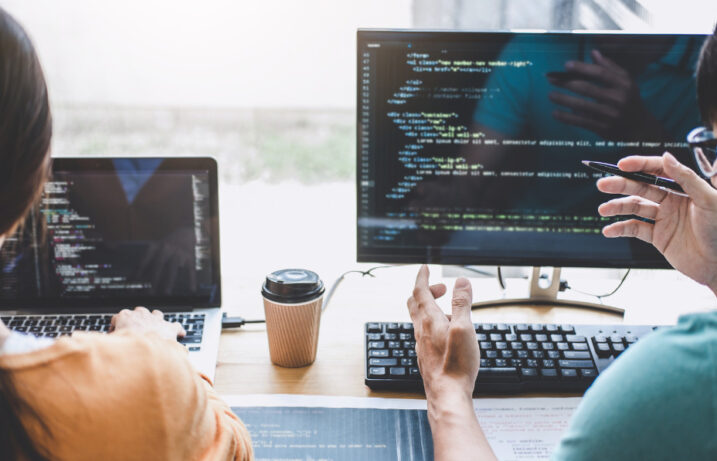
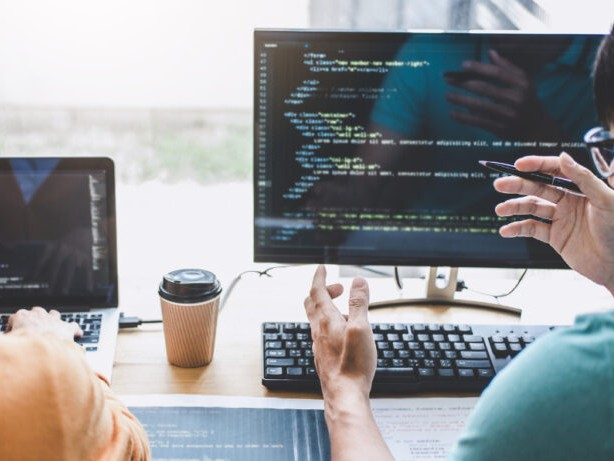
.

diff --git a/index.html b/index.html
@@ -4,6 +4,7 @@
     <meta charset="UTF-8">
     <meta name="viewport" content="width=device-width, initial-scale=1.0">
     <title>Arbisef.tech — Digital Studios</title>
+    <link rel="icon" href="images/logo.png" type="png">
     <link rel="stylesheet" href="styles.css">
     <link rel="preconnect" href="https://fonts.googleapis.com">
     <link rel="preconnect" href="https://fonts.gstatic.com" crossorigin>
@@ -149,7 +150,7 @@
                 </div>
                 <div class="stat-divider"></div>
                 <div class="stat">
-                    <span class="stat-num">10+</span>
+                    <span class="stat-num">5+</span>
                     <span class="stat-label">Projects shipped</span>
                 </div>
                 <div class="stat-divider"></div>
@@ -164,7 +165,7 @@
         </div>
         <div class="about-image">
             <div class="img-pixel-border"></div>
-            <img src="about-image.jpg" alt="Arbisef team at work" class="about-img">
+            <img src="images/about-image.jpg" alt="Arbisef team at work" class="about-img">
             <div class="img-caption">// TEAM_AT_WORK.JPG</div>
         </div>
     </div>
@@ -288,12 +289,12 @@
     <div class="team-grid reveal">
         <div class="team-card">
             <div class="team-avatar">
-                <div class="avatar-pixel" data-initials="AR"></div>
+                <img src="images/Arung.png" alt="Arung avatar" class="avatar-pixel">
                 <div class="team-status online"></div>
             </div>
             <div class="team-info">
                 <div class="team-rank">PLAYER 1</div>
-                <h3>Arbi</h3>
+                <h3>Arung</h3>
                 <p class="team-role">Founder & Full-Stack Dev</p>
                 <p class="team-bio">The architect. Turns caffeine and ideas into production-ready code.</p>
             </div>
@@ -304,12 +305,12 @@
         </div>
         <div class="team-card">
             <div class="team-avatar">
-                <div class="avatar-pixel" data-initials="SE"></div>
+                <img src="images/Arkaan.jpeg" alt="Arkaan avatar" class="avatar-pixel">
                 <div class="team-status online"></div>
             </div>
             <div class="team-info">
                 <div class="team-rank">PLAYER 2</div>
-                <h3>Sefi</h3>
+                <h3>Arkaan</h3>
                 <p class="team-role">Game Developer</p>
                 <p class="team-bio">Lives inside game engines. Makes pixels do things they shouldn't.</p>
             </div>
@@ -320,13 +321,13 @@
         </div>
         <div class="team-card">
             <div class="team-avatar">
-                <div class="avatar-pixel" data-initials="RI"></div>
+                <img src="images/Abizar.jpeg" alt="Abizar avatar" class="avatar-pixel">
                 <div class="team-status online"></div>
             </div>
             <div class="team-info">
                 <div class="team-rank">PLAYER 3</div>
-                <h3>Riko</h3>
-                <p class="team-role">UI/UX Designer</p>
+                <h3>Abizar</h3>
+                <p class="team-role">UI/UX Designer/scratch dev</p>
                 <p class="team-bio">Obsessed with the space between things. Makes every pixel intentional.</p>
             </div>
             <div class="team-skills-bar">
@@ -336,12 +337,12 @@
         </div>
         <div class="team-card">
             <div class="team-avatar">
-                <div class="avatar-pixel" data-initials="FA"></div>
+                <img src="images/Falih.jpeg" alt="Falih avatar" class="avatar-pixel">
                 <div class="team-status online"></div>
             </div>
             <div class="team-info">
                 <div class="team-rank">PLAYER 4</div>
-                <h3>Faza</h3>
+                <h3>Falih</h3>
                 <p class="team-role">Mobile & Backend Dev</p>
                 <p class="team-bio">Wrangles servers and APIs. If it runs on a phone, he built it.</p>
             </div>
@@ -353,7 +354,7 @@
     </div>
 
     <a href="about.html" class="learn-more" style="margin-top:48px;">
-        Meet the full team <i class="fa-solid fa-arrow-right"></i>
+        Learn more <i class="fa-solid fa-arrow-right"></i>
     </a>
 </section>
 
@@ -375,26 +376,7 @@
 <footer>
     <div class="footer-inner">
         <div class="footer-brand">
-            <svg class="coin-logo" viewBox="0 0 28 28" width="22" height="22" xmlns="http://www.w3.org/2000/svg">
-                    <rect x="9"  y="1"  width="10" height="2"  fill="#fbbf24"/>
-                    <rect x="5"  y="3"  width="18" height="2"  fill="#fbbf24"/>
-                    <rect x="3"  y="5"  width="22" height="18" fill="#fbbf24"/>
-                    <rect x="5"  y="23" width="18" height="2"  fill="#fbbf24"/>
-                    <rect x="9"  y="25" width="10" height="2"  fill="#fbbf24"/>
-                    <rect x="5"  y="3"  width="7"  height="2"  fill="#fde68a"/>
-                    <rect x="3"  y="5"  width="2"  height="7"  fill="#fde68a"/>
-                    <rect x="21" y="21" width="4"  height="2"  fill="#b45309"/>
-                    <rect x="23" y="12" width="2"  height="9"  fill="#b45309"/>
-                    <rect x="7"  y="5"  width="14" height="18" fill="#f59e0b"/>
-                    <rect x="5"  y="7"  width="18" height="14" fill="#f59e0b"/>
-                    <rect x="13" y="8"  width="2"  height="2"  fill="#78350f"/>
-                    <rect x="11" y="10" width="6"  height="2"  fill="#78350f"/>
-                    <rect x="9"  y="12" width="10" height="2"  fill="#78350f"/>
-                    <rect x="11" y="14" width="6"  height="2"  fill="#78350f"/>
-                    <rect x="13" y="16" width="2"  height="2"  fill="#78350f"/>
-                    <rect x="11" y="12" width="2"  height="2"  fill="#78350f"/>
-                    <rect x="15" y="12" width="2"  height="2"  fill="#78350f"/>
-                </svg>
+            <img src="images/logo.png" alt="Arbisef logo" class="footer-logo">
             <span>Arbisef.tech</span>
         </div>
         <p class="footer-copy">© 2025 Arbisef.tech — All rights reserved.</p>

diff --git a/about.html b/about.html
@@ -72,7 +72,7 @@
                 <div class="img-caption">// TEAM_AT_WORK.JPG</div>
             </div>
             <div class="floating-badge reveal-delay-1">
-                <span class="badge-num">2023</span>
+                <span class="badge-num">2025</span>
                 <span class="badge-label">Founded</span>
             </div>
         </div>
@@ -100,12 +100,12 @@
     </div>
     <div class="stat-sep"></div>
     <div class="stat-item">
-        <span class="stat-big">2+</span>
-        <span class="stat-desc">Years building</span>
+        <span class="stat-big">6+</span>
+        <span class="stat-desc">months building</span>
     </div>
     <div class="stat-sep"></div>
     <div class="stat-item">
-        <span class="stat-big">10+</span>
+        <span class="stat-big">5+</span>
         <span class="stat-desc">Projects shipped</span>
     </div>
     <div class="stat-sep"></div>
@@ -127,14 +127,14 @@
 
         <div class="team-full-card reveal">
             <div class="tfc-left">
-                <div class="tfc-avatar" data-initials="AR" style="--c1:#b325eb;--c2:#ed60fa"></div>
+                <img src="images/Arung.png" alt="Arung avatar" class="tfc-avatar">
                 <div class="tfc-rank">PLAYER 1</div>
                 <div class="tfc-status"><span class="online-dot"></span> Online</div>
             </div>
             <div class="tfc-right">
-                <h3>Arbi</h3>
+                <h3>Arung</h3>
                 <p class="tfc-role"><i class="fa-solid fa-code"></i> Founder & Full-Stack Developer</p>
-                <p class="tfc-bio">The architect behind Arbisef.tech. Arbi turns caffeine and ideas into production-ready systems. Passionate about clean code and shipping things that last. When not coding, he's probably redesigning something that wasn't broken.</p>
+                <p class="tfc-bio">The architect behind Arbisef.tech. Arung turns caffeine and ideas into production-ready systems. Passionate about clean code and shipping things that last. When not coding, he's probably redesigning something that wasn't broken.</p>
                 <div class="tfc-skills">
                     <div class="tfc-skill-row"><span>Full-Stack</span><div class="tfc-bar"><div style="width:95%"></div></div></div>
                     <div class="tfc-skill-row"><span>Leadership</span><div class="tfc-bar"><div style="width:90%"></div></div></div>
@@ -148,14 +148,14 @@
 
         <div class="team-full-card reveal">
             <div class="tfc-left">
-                <div class="tfc-avatar" data-initials="SE" style="--c1:#7c3aed;--c2:#a78bfa"></div>
+                <img src="images/Arkaan.jpeg" alt="Arkaan avatar" class="tfc-avatar">
                 <div class="tfc-rank">PLAYER 2</div>
                 <div class="tfc-status"><span class="online-dot"></span> Online</div>
             </div>
             <div class="tfc-right">
-                <h3>Sefi</h3>
+                <h3>Arkaan</h3>
                 <p class="tfc-role"><i class="fa-solid fa-gamepad"></i> Game Developer</p>
-                <p class="tfc-bio">Sefi lives inside game engines. He makes pixels do things they were never designed to do. With a deep love for game mechanics and interactive storytelling, Sefi brings the fun factor to everything Arbisef touches.</p>
+                <p class="tfc-bio">Arkaan lives inside game engines. He makes pixels do things they were never designed to do. With a deep love for game mechanics and interactive storytelling, Arkaan brings the fun factor to everything Arbisef touches.</p>
                 <div class="tfc-skills">
                     <div class="tfc-skill-row"><span>Game Dev</span><div class="tfc-bar"><div style="width:97%"></div></div></div>
                     <div class="tfc-skill-row"><span>Physics</span><div class="tfc-bar"><div style="width:91%"></div></div></div>
@@ -169,14 +169,14 @@
 
         <div class="team-full-card reveal">
             <div class="tfc-left">
-                <div class="tfc-avatar" data-initials="RI" style="--c1:#db2777;--c2:#f472b6"></div>
+                <img src="images/Abizar.jpeg" alt="Abizar avatar" class="tfc-avatar">
                 <div class="tfc-rank">PLAYER 3</div>
                 <div class="tfc-status"><span class="online-dot"></span> Online</div>
             </div>
             <div class="tfc-right">
-                <h3>Riko</h3>
-                <p class="tfc-role"><i class="fa-solid fa-palette"></i> UI/UX Designer</p>
-                <p class="tfc-bio">Riko is obsessed with the space between things. Every margin, every transition, every color choice — intentional. She translates chaotic product ideas into clear, beautiful experiences that users actually enjoy using.</p>
+                <h3>Abizar</h3>
+                <p class="tfc-role"><i class="fa-solid fa-palette"></i> UI/UX Designer/Scratch dev</p>
+                <p class="tfc-bio">Abizar is obsessed with the space between things. Every margin, every transition, every color choice — intentional. He translates chaotic product ideas into clear, beautiful experiences that users actually enjoy using.</p>
                 <div class="tfc-skills">
                     <div class="tfc-skill-row"><span>UI Design</span><div class="tfc-bar"><div style="width:96%"></div></div></div>
                     <div class="tfc-skill-row"><span>Motion</span><div class="tfc-bar"><div style="width:88%"></div></div></div>
@@ -190,14 +190,14 @@
 
         <div class="team-full-card reveal">
             <div class="tfc-left">
-                <div class="tfc-avatar" data-initials="FA" style="--c1:#0891b2;--c2:#22d3ee"></div>
+                <img src="images/Falih.jpeg" alt="Falih avatar" class="tfc-avatar">
                 <div class="tfc-rank">PLAYER 4</div>
                 <div class="tfc-status"><span class="online-dot"></span> Online</div>
             </div>
             <div class="tfc-right">
-                <h3>Faza</h3>
+                <h3>Falih</h3>
                 <p class="tfc-role"><i class="fa-solid fa-server"></i> Mobile & Backend Developer</p>
-                <p class="tfc-bio">Faza wrangles servers, databases, and mobile platforms without breaking a sweat. If it runs on a phone or powers an API, he built it. The quiet force ensuring everything actually works — reliably, at scale.</p>
+                <p class="tfc-bio">Falih wrangles servers, databases, and mobile platforms without breaking a sweat. If it runs on a phone or powers an API, he built it. The quiet force ensuring everything actually works — reliably, at scale.</p>
                 <div class="tfc-skills">
                     <div class="tfc-skill-row"><span>Mobile</span><div class="tfc-bar"><div style="width:94%"></div></div></div>
                     <div class="tfc-skill-row"><span>Backend</span><div class="tfc-bar"><div style="width:91%"></div></div></div>

diff --git a/styles.css b/styles.css
@@ -107,7 +107,6 @@ ul.navbar {
     text-decoration: none;
 }
 
-/* Coin logo */
 .coin-logo {
     flex-shrink: 0;
     filter: drop-shadow(0 0 6px rgba(217,119,6,0.5));
@@ -292,22 +291,6 @@ section {
     pointer-events: none;
 }
 
-/* Floating orbs */
-.orb {
-    position: absolute;
-    border-radius: 50%;
-    filter: blur(80px);
-    pointer-events: none;
-    animation: float 8s ease-in-out infinite;
-}
-.orb-1 { width: 500px; height: 500px; background: rgba(74,222,128,0.16); top: -120px; left: -80px; animation-delay: 0s; }
-.orb-2 { width: 300px; height: 300px; background: rgba(22,101,52,0.10); top: 35%; right: 5%; animation-delay: 3s; }
-.orb-3 { width: 220px; height: 220px; background: rgba(217,119,6,0.09); bottom: 12%; left: 18%; animation-delay: 6s; }
-
-@keyframes float {
-    0%, 100% { transform: translateY(0); }
-    50%       { transform: translateY(-30px); }
-}
 
 /* Arcade decorations */
 .arcade-deco {
@@ -557,6 +540,7 @@ a.btn-primary, a.btn-ghost {
     border-bottom: 1px solid var(--border);
     width: 100%;
 }
+
 .stat { display: flex; flex-direction: column; }
 .stat-num {
     font-family: var(--font-display);
@@ -565,6 +549,13 @@ a.btn-primary, a.btn-ghost {
 }
 .stat-label { font-size: 0.85rem; color: var(--muted); }
 .stat-divider { width: 1px; height: 40px; background: var(--border); }
+
+.stat-label, .stat-num {
+    transition: color var(--transition), transform var(--transition);
+}
+
+.stat:hover .stat-num { color: var(--purple-light); transform: translateY(-2px); }
+.stat:hover .stat-label { color: var(--purple-light); transform: translateY(-2px); }
 
 .learn-more {
     display: inline-flex;
@@ -656,9 +647,8 @@ a.btn-primary, a.btn-ghost {
     display: flex;
     flex-direction: column;
     gap: 12px;
-    transition: border-color var(--transition), transform var(--transition), box-shadow var(--transition);
     position: relative;
-    overflow: hidden;
+    transition: border-color var(--transition), transform var(--transition), box-shadow var(--transition);
 }
 .service-card::before {
     content: '';
@@ -671,7 +661,7 @@ a.btn-primary, a.btn-ghost {
 }
 .service-card:hover {
     border-color: var(--border-purple);
-    transform: translateY(-6px);
+    transform: translateY(-6px) !important;
     box-shadow: 0 16px 40px rgba(22,101,52,0.1);
 }
 .service-card:hover::before { opacity: 1; }

diff --git a/main.js b/main.js
@@ -37,7 +37,14 @@ function hidesidebar() {
 }
 document.addEventListener('click', (e) => {
     const sidebar = document.getElementById('sidebar');
-    if (sidebar.classList.contains('open') && !sidebar.contains(e.target)) hidesidebar();
+    const menuButton = document.querySelector('.menubutton');
+    const sidebarClose = document.querySelector('.sidebar-close');
+    if (sidebar.classList.contains('open') && 
+        !sidebar.contains(e.target) && 
+        !menuButton.contains(e.target) && 
+        !sidebarClose.contains(e.target)) {
+        hidesidebar();
+    }
 });
 
 // Reveal on scroll